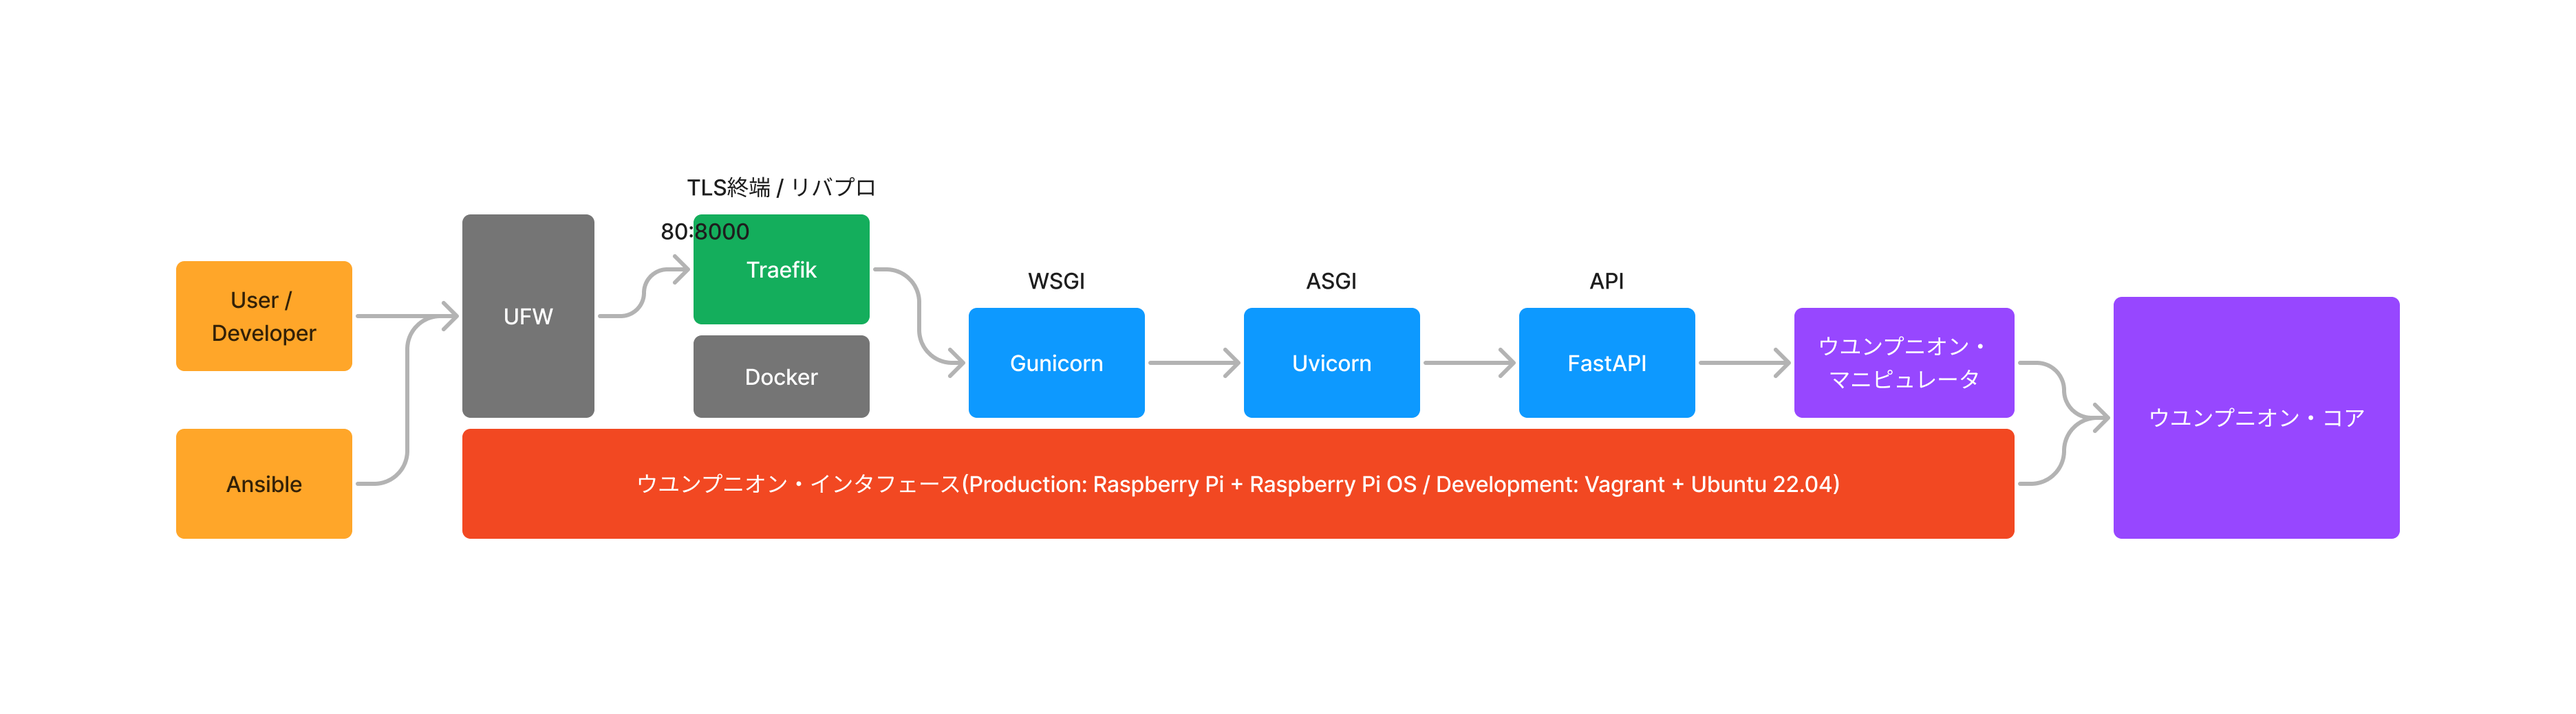
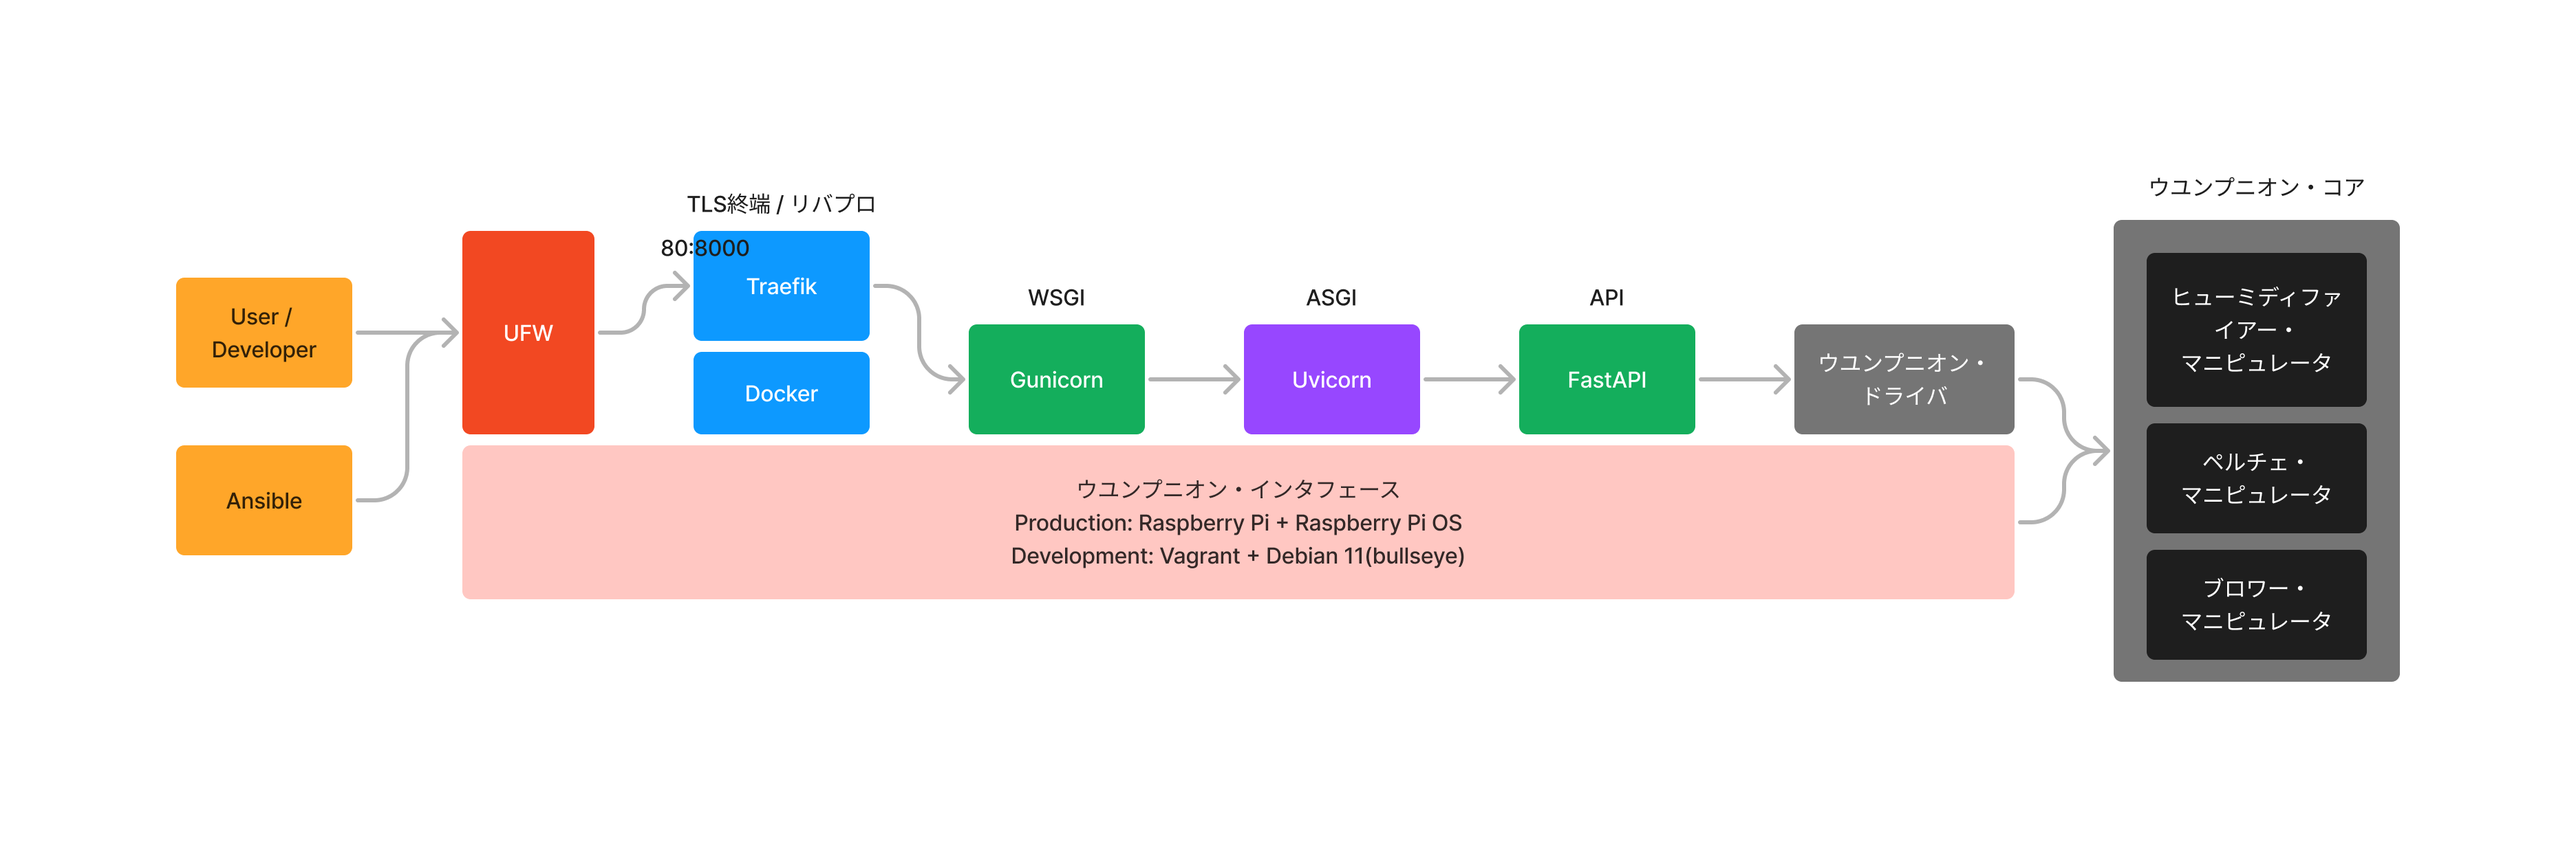
Modify manipukator to driver

Changed region(s): [[0.0625, 0.2156, 0.9375, 0.8008]]

diff --git a/src/routes/peltier.py b/src/routes/peltier.py
@@ -1,5 +1,5 @@
+from drivers.peltier import PeltierDriver, PeltierMode
 from fastapi import APIRouter, Depends
-from manipulators.peltier import PeltierManipulator, PeltierMode
 from middlewares.verify_token import verify_token_middleware
 from settings import get_settings
 from shemas.peltier import ColdPeltierResponse, StopPeltierResponse, WarmPeltierResponse
@@ -13,37 +13,37 @@ router = APIRouter(
 @router.post("/cold", response_model=ColdPeltierResponse)
 def cold_peltier(
     UYUNPUNION_TOKEN: str = TokenRequestHeader(),
-    manipulator: PeltierManipulator = Depends(),
+    driver: PeltierDriver = Depends(),
 ):
     """
     ペルチェ素子を冷却する
     """
     if get_settings().ENV == "prod":
-        manipulator.start(mode=PeltierMode.Cold)
+        driver.start(mode=PeltierMode.Cold)
     return {"message": "pong"}
 
 
 @router.post("/warm", response_model=WarmPeltierResponse)
 def warm_peltier(
     UYUNPUNION_TOKEN: str = TokenRequestHeader(),
-    manipulator: PeltierManipulator = Depends(),
+    driver: PeltierDriver = Depends(),
 ):
     """
     ペルチェ素子を加熱する
     """
     if get_settings().ENV == "prod":
-        manipulator.start(mode=PeltierMode.Warm)
+        driver.start(mode=PeltierMode.Warm)
     return {"message": "pong"}
 
 
 @router.post("/stop", response_model=StopPeltierResponse)
 def stop_peltier(
     UYUNPUNION_TOKEN: str = TokenRequestHeader(),
-    manipulator: PeltierManipulator = Depends(),
+    driver: PeltierDriver = Depends(),
 ):
     """
     ペルチェ素子を停止する
     """
     if get_settings().ENV == "prod":
-        manipulator.stop()
+        driver.stop()
     return {"message": "pong"}

diff --git a/src/drivers/humidifier.py b/src/drivers/humidifier.py
@@ -4,39 +4,47 @@ import time
 import pigpio
 
 try:
-    from manipulators.manipulator import Manipulator
+    from drivers.driver import Driver
 except ImportError:
-    from manipulator import Manipulator
+    from driver import Driver
 
 
-class BlowerManipulator(Manipulator):
+class HumidifierDriver(Driver):
     def __init__(self) -> None:
         super().__init__()
         self.pi = pigpio.pi()
-        self.pin = 25
+        self.pin = 23
 
     def start(self):
         self.pi.set_mode(self.pin, pigpio.OUTPUT)
 
         self.pi.write(self.pin, 1)
         time.sleep(0.5)
+        self.pi.write(self.pin, 0)
 
-        print("blower start")
+        print("humidifier start")
 
     def stop(self):
         self.pi.set_mode(self.pin, pigpio.OUTPUT)
 
         self.pi.write(self.pin, 0)
         time.sleep(0.5)
+        self.pi.write(self.pin, 1)
+        time.sleep(0.5)
+        self.pi.write(self.pin, 0)
+        time.sleep(0.5)
+        self.pi.write(self.pin, 1)
+        time.sleep(0.5)
+        self.pi.write(self.pin, 0)
 
-        print("blower stop")
+        print("humidifier stop")
 
 
 if __name__ == "__main__":
     action = sys.argv[1]
-    manipulator = BlowerManipulator()
+    driver = HumidifierDriver()
 
     if action == "start":
-        manipulator.start()
+        driver.start()
     elif action == "stop":
-        manipulator.stop()
+        driver.stop()

diff --git a/src/routes/humidifier.py b/src/routes/humidifier.py
@@ -1,5 +1,5 @@
+from drivers.humidifier import HumidifierDriver
 from fastapi import APIRouter, Depends
-from manipulators.humidifier import HumidifierManipulator
 from middlewares.verify_token import verify_token_middleware
 from settings import get_settings
 from shemas.humidifier import StartHumidifierResponse, StopHumidifierResponse
@@ -15,24 +15,24 @@ router = APIRouter(
 @router.post("/start", response_model=StartHumidifierResponse)
 def start_humidifier(
     UYUNPUNION_TOKEN: str = TokenRequestHeader(),
-    manipulator: HumidifierManipulator = Depends(),
+    driver: HumidifierDriver = Depends(),
 ):
     """
     加湿器を作動させる
     """
     if get_settings().ENV == "prod":
-        manipulator.start()
+        driver.start()
     return {"message": "pong"}
 
 
 @router.post("/stop", response_model=StopHumidifierResponse)
 def stop_humidifier(
     UYUNPUNION_TOKEN: str = TokenRequestHeader(),
-    manipulator: HumidifierManipulator = Depends(),
+    driver: HumidifierDriver = Depends(),
 ):
     """
     加湿器を停止する
     """
     if get_settings().ENV == "prod":
-        manipulator.stop()
+        driver.stop()
     return {"message": "pong"}

diff --git a/src/routes/blower.py b/src/routes/blower.py
@@ -1,5 +1,5 @@
+from drivers.blower import BlowerDriver
 from fastapi import APIRouter, Depends
-from manipulators.blower import BlowerManipulator
 from middlewares.verify_token import verify_token_middleware
 from settings import get_settings
 from shemas.blower import StartBlowerResponse, StopBlowerResponse
@@ -13,24 +13,24 @@ router = APIRouter(
 @router.post("/start", response_model=StartBlowerResponse)
 def start_blower(
     UYUNPUNION_TOKEN: str = TokenRequestHeader(),
-    manipulator: BlowerManipulator = Depends(),
+    driver: BlowerDriver = Depends(),
 ):
     """
     ブロワーを作動させる
     """
     if get_settings().ENV == "prod":
-        manipulator.start()
+        driver.start()
     return {"message": "pong"}
 
 
 @router.post("/stop", response_model=StopBlowerResponse)
 def stop_blower(
     UYUNPUNION_TOKEN: str = TokenRequestHeader(),
-    manipulator: BlowerManipulator = Depends(),
+    driver: BlowerDriver = Depends(),
 ):
     """
     ブロワーを停止する
     """
     if get_settings().ENV == "prod":
-        manipulator.stop()
+        driver.stop()
     return {"message": "pong"}

diff --git a/src/drivers/peltier.py b/src/drivers/peltier.py
@@ -5,9 +5,9 @@ from enum import Enum
 import pigpio
 
 try:
-    from manipulators.manipulator import Manipulator
+    from drivers.driver import Driver
 except ImportError:
-    from manipulator import Manipulator
+    from driver import Driver
 
 
 class PeltierMode(Enum):
@@ -19,7 +19,7 @@ class PeltierModeNotExistsError(Exception):
     pass
 
 
-class PeltierManipulator(Manipulator):
+class PeltierDriver(Driver):
     def __init__(self) -> None:
         super().__init__()
 
@@ -67,11 +67,11 @@ class PeltierManipulator(Manipulator):
 
 if __name__ == "__main__":
     action = sys.argv[1]
-    manipulator = PeltierManipulator()
+    driver = PeltierDriver()
 
     if action == "cold":
-        manipulator.start(mode=PeltierMode.Cold)
+        driver.start(mode=PeltierMode.Cold)
     if action == "warm":
-        manipulator.start(mode=PeltierMode.Warm)
+        driver.start(mode=PeltierMode.Warm)
     elif action == "stop":
-        manipulator.stop()
+        driver.stop()

diff --git a/src/drivers/blower.py b/src/drivers/blower.py
@@ -1,0 +1,42 @@
+import sys
+import time
+
+import pigpio
+
+try:
+    from drivers.driver import Driver
+except ImportError:
+    from drivers import Driver
+
+
+class BlowerDriver(Driver):
+    def __init__(self) -> None:
+        super().__init__()
+        self.pi = pigpio.pi()
+        self.pin = 25
+
+    def start(self):
+        self.pi.set_mode(self.pin, pigpio.OUTPUT)
+
+        self.pi.write(self.pin, 1)
+        time.sleep(0.5)
+
+        print("blower start")
+
+    def stop(self):
+        self.pi.set_mode(self.pin, pigpio.OUTPUT)
+
+        self.pi.write(self.pin, 0)
+        time.sleep(0.5)
+
+        print("blower stop")
+
+
+if __name__ == "__main__":
+    action = sys.argv[1]
+    driver = BlowerDriver()
+
+    if action == "start":
+        driver.start()
+    elif action == "stop":
+        driver.stop()

diff --git a/src/drivers/driver.py b/src/drivers/driver.py
@@ -1,7 +1,7 @@
 from abc import ABC, abstractmethod
 
 
-class Manipulator(ABC):
+class Driver(ABC):
     @abstractmethod
     def start():
         pass

diff --git a/README.md b/README.md
@@ -34,7 +34,7 @@
 ├ images
 ├ proxy                 リバースプロキシ(Traefik)の設定
 ├ src
-│ ├ manipulators        ウユンプニオン・コアの制御スクリプト
+│ ├ drivers             ウユンプニオン・ドライバの制御スクリプト
 │ ├ middlewares         カスタムミドルウェア
 │ ├ routes              APIの各エンドポイント
 │ ├ schemas             レスポンスのスキーマ
@@ -62,16 +62,16 @@
 
 ```bash
 $ cd src
-$ cp .env.example .env                   # UYUNPUNION_TOKENの設定が必須
+$ cp .env.example .env              # UYUNPUNION_TOKENの設定が必須
 $ pipenv install --dev
 $ pipenv shell
-$ pipenv run dev                         # サーバの起動
-$ pipenv run dev --port 8081             # ポート指定する場合
-$ pipenv run dev --host 0.0.0.0          # ホスト指定する場合(0.0.0.0の場合、プライベートIPでのアクセスが可能となる)
-$ open localhost:8080                    # API
-$ open localhost:8080/docs               # Swagger
-$ open localhost:8080/redoc              # Redoc
-$ python manipulators/blower.py start    # マニピュレータ単体で実行させる場合
+$ pipenv run dev                    # サーバの起動
+$ pipenv run dev --port 8081        # ポート指定する場合
+$ pipenv run dev --host 0.0.0.0     # ホスト指定する場合(0.0.0.0の場合、プライベートIPでのアクセスが可能となる)
+$ open localhost:8080               # API
+$ open localhost:8080/docs          # Swagger
+$ open localhost:8080/redoc         # Redoc
+$ python drivers/blower.py start    # ドライバ単体で実行させる場合
 ```
 
 ## APIの環境構築(本番環境)
@@ -116,6 +116,7 @@ $ curl -H "Host: uyunpunion.uyupun.tech" -L "<private ip address>/ping" # 疎通
 - 以下の用途で使用します
     - Ansibleのテスト
     - より本番環境に近い環境での動作確認
+        - ※ Debian 11(bullseye)が動作します
 
 - 以下のソフトウェアが必要です
     - Homebrew
